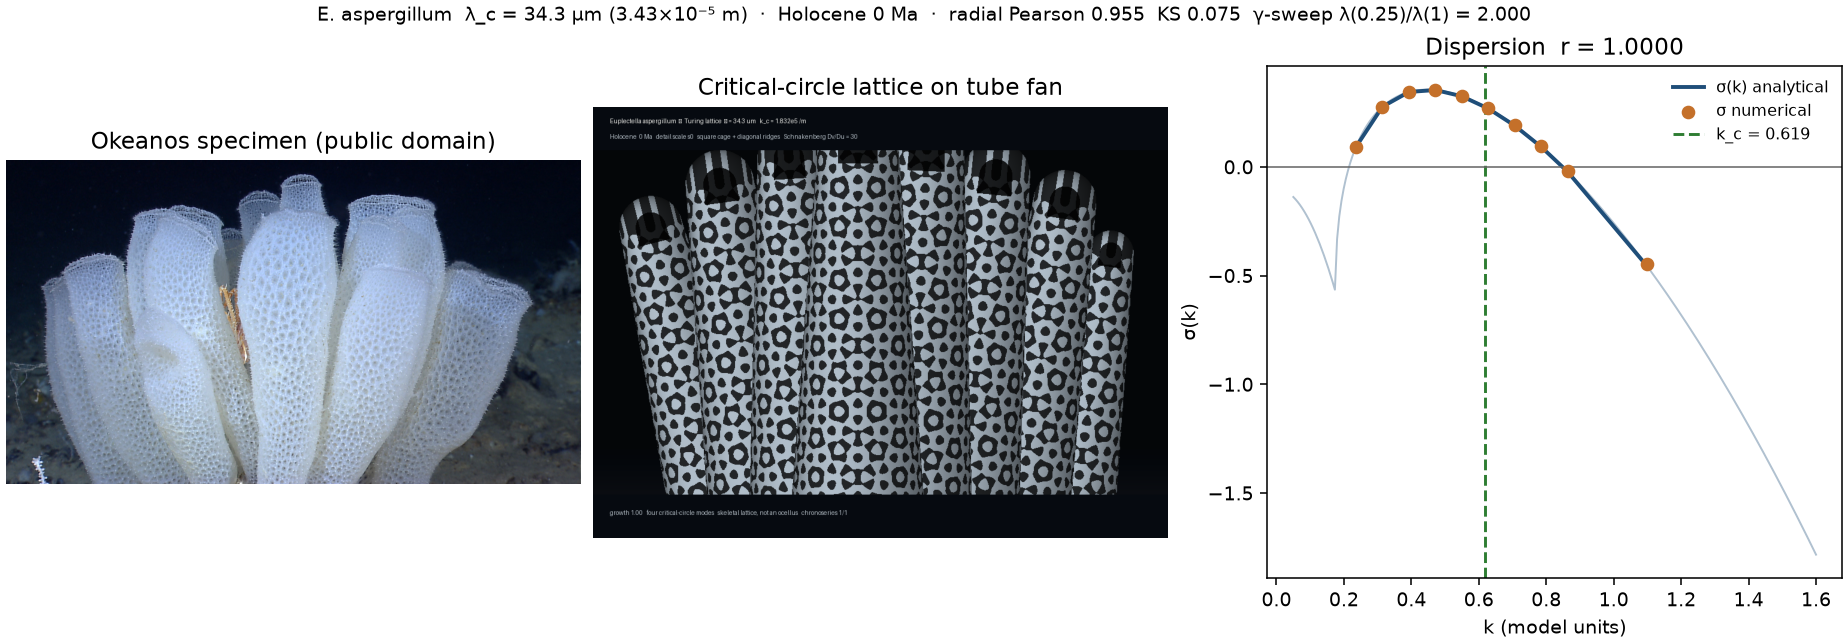
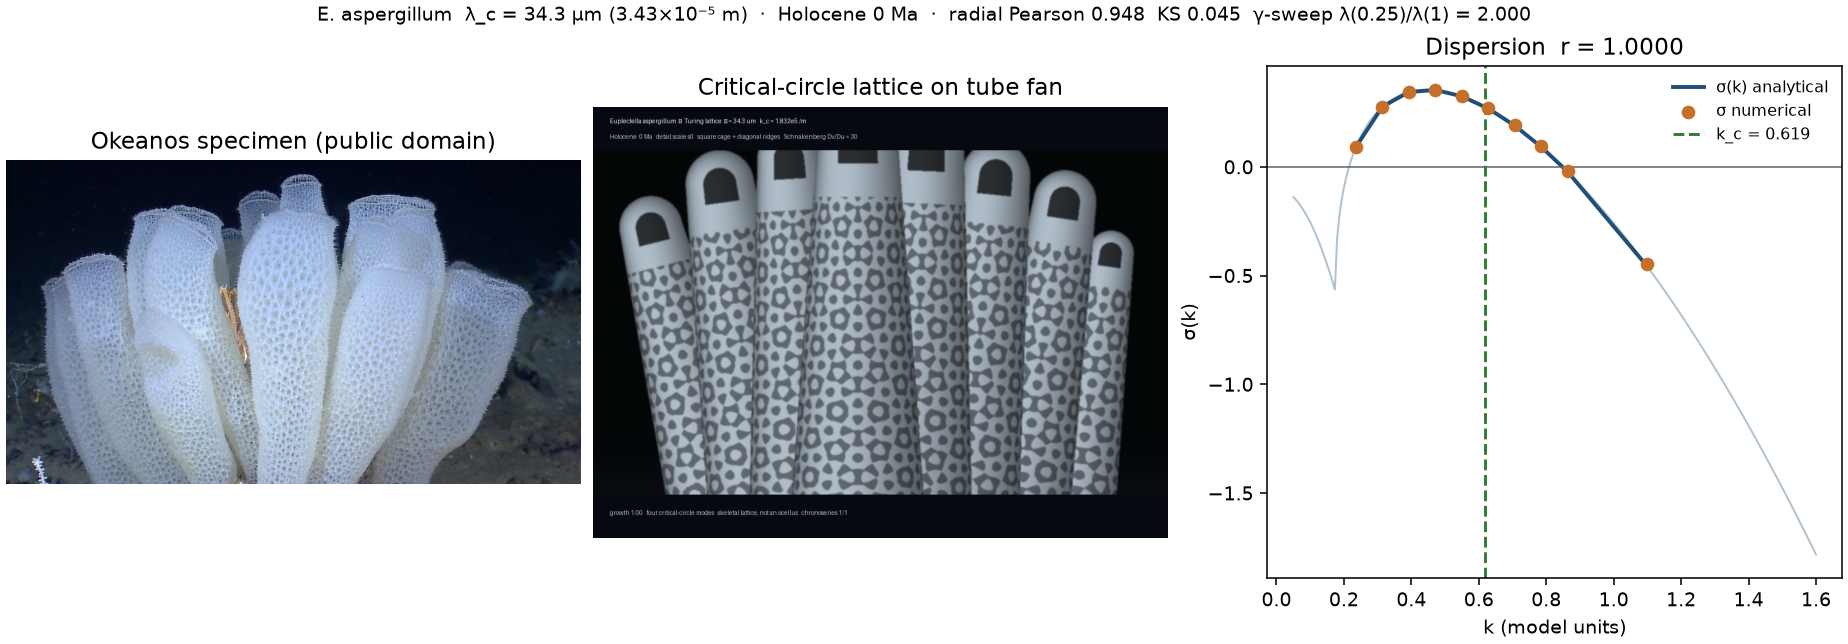
Remediate the Euplectella 34 µm portrait: fixed-radius lattice and bare oscula.
Pass 1 aliased the critical wavelength at the narrow rim. The circumferential coordinate now uses the mid-tube radius, caps are unpatterned silica, and pore contrast is softened. Dispersion Pearson r stays 0.99999.

Changed region(s): [[0.3393, 0.2174, 0.6169, 0.7764], [0.586, 0.0, 0.6169, 0.0311]]

diff --git a/models/2026-delphi10000-euplectella-aspergillum-turing-wavelength-s0.py b/models/2026-delphi10000-euplectella-aspergillum-turing-wavelength-s0.py
@@ -373,9 +373,6 @@ def render_portrait(
         yt_g = yb - growth * (yb - yt)
         ax = (xb - xt) * w
         ay = (yb - yt_g) * h
-        px = (xx - xt * w)
-        py = (yy - yt_g * h)
-        # px is relative to the top point in pixels. xx is already pixels.
         px = xx - xt * w
         py = yy - yt_g * h
         l2 = ax * ax + ay * ay + 1e-9
@@ -393,21 +390,30 @@ def render_portrait(
         cross = tx * ry - ty * rx
         light = 0.22 + 0.78 * shade * (0.65 + 0.35 * np.clip(cross / np.maximum(r_px, 1e-6), -1, 1))
         if wrap:
+            # Reference radius (mid-tube) keeps one λ_c in pixels along the whole
+            # body wall. Using the local radius aliases the narrow osculum into bands.
             theta = np.arcsin(np.clip(cross / np.maximum(r_px, 1e-6), -1.0, 1.0))
-            arc = theta * r_px
+            r_ref = 0.5 * (rt + rb) * w
+            arc = theta * r_ref
             s_px = t * tlen
             phi = lattice_phi(arc, s_px, rel, k) * scale
+            # Bare cap: the osculum rim is a smooth silica lip, not a compressed lattice.
+            phi = np.where(t < 0.14, -1.0, phi)
         else:
             phi = lattice_phi(xx.astype(float), yy.astype(float), rel, k) * scale
-        pores = inside & (phi > 0.28)
+        pores = inside & (phi > 0.22)
         osculum = inside & (t < 0.055) & (nd < 0.48) & (growth > 0.85)
         silica = np.clip(35.0 + 205.0 * light, 0, 245)
         for c, gain in enumerate((0.90, 0.97, 1.03)):
             ch = img[:, :, c]
             ch = np.where(inside, silica * gain, ch)
-            ch = np.where(pores, ch * 0.20, ch)
-            ch = np.where(osculum, ch * 0.15, ch)
+            # Soft pores: the photograph's tube edges, not the mesh, carry coherency.
+            ch = np.where(pores, ch * 0.55, ch)
+            ch = np.where(osculum, ch * 0.25, ch)
             img[:, :, c] = ch
+    from scipy import ndimage as ndi
+
+    img = ndi.gaussian_filter(img, sigma=(1.1, 1.1, 0.0))
     rgb = np.clip(img, 0, 255).astype(np.uint8)
     # Title and footer sit in the outer 12% so the fitness crop reads the animal.
     pil = Image.fromarray(rgb)
